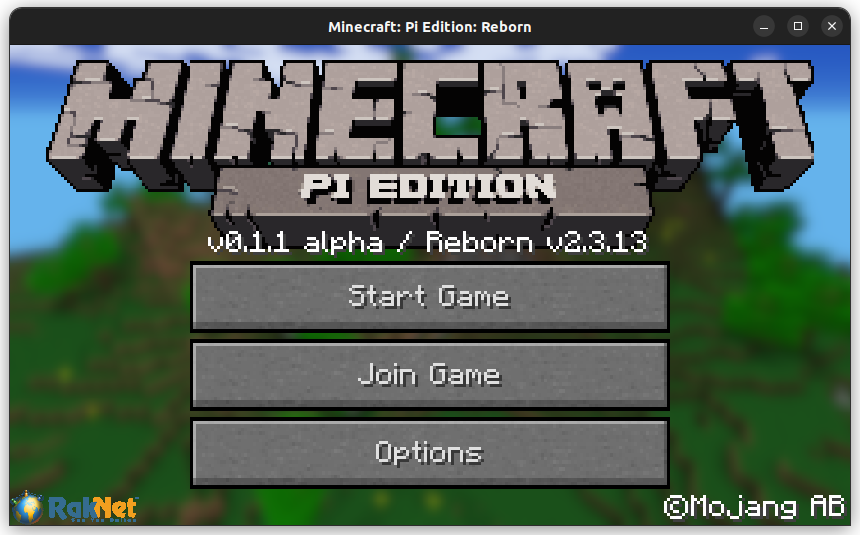
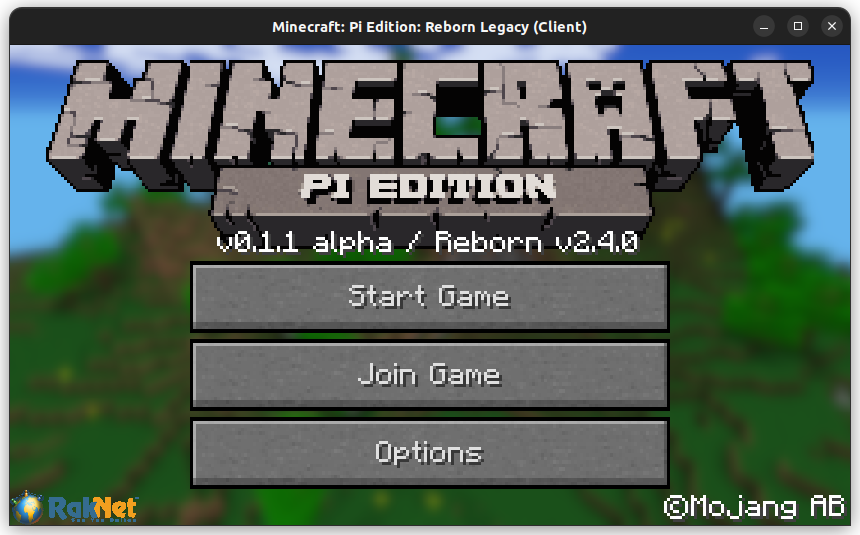
2.4.0

Changed region(s): [[0.2419, 0.4187, 0.7558, 0.4785], [0.3023, 0.0299, 0.6953, 0.0598]]

diff --git a/mods/src/touch/touch.cpp b/mods/src/touch/touch.cpp
@@ -88,7 +88,7 @@ void init_touch() {
     unsigned char outline_patch[4] = {(unsigned char) (block_outlines ? !touch_gui : touch_gui), 0x00, 0x50, 0xe3}; // "cmp r0, #0x1" or "cmp r0, #0x0"
     patch((void *) 0x4a210, outline_patch);
     if (block_outlines) {
-        // Diable Broken Touchscreen-Specific Block Outline Behavior
+        // Disable Broken Touchscreen-Specific Block Outline Behavior
         unsigned char block_highlight_patch[4] = {0x03, 0x00, 0x53, 0xe1}; // "cmp r3, r3"
         patch((void *) 0x494b4, block_highlight_patch);
     }

diff --git a/docs/ARCHITECTURE.md b/docs/ARCHITECTURE.md
@@ -2,6 +2,11 @@
 
 ## Launch Sequence
 
+### Common
+1. The launcher forks itself
+   1. The child process continues the launch sequence.
+   2. The original process monitors the child process for crashes.
+
 ### Client
 1. The launcher is started by the user
    1. The launcher starts several Zenity dialogs to configure MCPI-Reborn
@@ -34,12 +39,11 @@ The Media Layer handles MCPI's graphics calls and user input. It replaces MCPI's
 This sub-component re-implements a subset of SDL 1.2 calls with GLFW. It also provides a few utility functions that are used internally by MCPI-Reborn.
 
 The utility functions include:
-* Taking Screenshots
 * Fullscreen
 * Audio
 * Etc
 
-This is always compiled for the host system's architecture.
+This is always compiled for the host system's architecture unless the Media Layer Proxy is disabled.
 
 This was created because SDL 1.2 has numerous bugs and is in-general unsupported.
 
@@ -60,20 +64,12 @@ It is made of two parts:
 
 While proxying all Media Layer Core API calls across UNIX pipes does hurt performance, it is better than emulating the entire graphics stack.
 
-Using this in server-mode is redundant (and disallowed).
+Using this in server-mode is redundant.
 
 #### Extras
 This sub-component contains code that must always be linked directly to MCPI.
 
 This is always compiled for ARM.
-
-#### Stubs
-This sub-component implements stubs for various redundant libraries used by MCPI to silence linker errors.
-
-This is always compiled for ARM.
-
-##### What To Stub And What To Patch?
-Most libraries (like ``bcm_host``) can just be replaced with stubs, because they don't need to do anything and aren't used by anything else. However, some libraries (like EGL and X11) might be used by some of MCPI-Reborn's dependencies (like GLFW) so instead of being replaced by a stub, each call is manually patched out from MCPI. A stub is still generated just in case that library isn't present on the system to silence linker errors, but it is only loaded if no other version is available.
 
 #### Headers
 This sub-component includes headers for SDL, GLES, and EGL allowing easy (cross-)compilation.

diff --git a/docs/INSTALL.md b/docs/INSTALL.md
@@ -3,24 +3,22 @@
 ## AppImage
 Download packages [here](https://jenkins.thebrokenrail.com/job/minecraft-pi-reborn/job/master/lastSuccessfulBuild/artifact/out/).
 
+### System Requirements
+* Debian Buster/Ubuntu 18.04 Or Higher
+* QEMU User-Mode
+  * Debian/Ubuntu: ``sudo apt install qemu-user``
+  * Arch: ``sudo pacman -Sy qemu-user``
+* Client-Only Dependencies
+  * Graphics Drivers
+  * GTK+ 3
+    * Debian/Ubuntu: ``sudo apt install libgtk-3-0``
+    * Arch: ``sudo pacman -Sy gtk3``
+  * OpenAL
+    * Debian/Ubuntu: ``sudo apt install libopenal1``
+    * Arch: ``sudo pacman -Sy openal``
+
 ### Running
 Follow [these](https://docs.appimage.org/introduction/quickstart.html#how-to-run-an-appimage) instructions.
-
-### Picking A Package
-
-#### Name Format
-```
-minecraft-pi-reborn-<Variant>_X.Y.Z_<Architecture>
-```
-
-#### Picking A Variant
-* ``client``: Client mode, use this if you want to play MCPI.
-* ``server``: Server mode, use this if you want to host a dedicated MCPI server.
-
-#### Picking An Architecture
-* ``amd64``: x86_64, use this if you are using a device with an AMD or Intel processor.
-* ``armhf``: ARM 32-Bit, use this if you are using an ARM device (like a Raspberry Pi).
-* ``arm64``: ARM 64-Bit, ``armhf`` but for 64-bit devices.
 
 ## Flatpak
 <a href="https://flathub.org/apps/details/com.thebrokenrail.MCPIReborn"><img width="240" alt="Download On Flathub" src="https://flathub.org/assets/badges/flathub-badge-en.svg" /></a>

diff --git a/docs/BUILDING.md b/docs/BUILDING.md
@@ -1,21 +1,11 @@
 # Building
 
-## Build Dependencies
-* Common
-  * ARM Compiler
-  * Host Compiler
-  * CMake
-* Host Architecture Dependencies
-  * Client Mode Only
-    * OpenAL
+## Dependencies
 
-## Runtime Dependencies
-* Non-ARM Host Architectures
-  * QEMU User-Mode
-* Host Architecture Dependencies
-  * Client Mode Only
-    * OpenGL ES 2.0
-    * OpenAL
+### Debian/Ubuntu
+```sh
+./scripts/install-dependencies.sh
+```
 
 ## Instructions
 ```sh
@@ -29,4 +19,4 @@
 ```
 
 ### Environment Variables
-- ``MCPI_TOOLCHAIN_USE_DEFAULT_SEARCH_PATHS``: Use Default CMake Search Paths Rather Than Guessing
+* ``MCPI_TOOLCHAIN_USE_DEFAULT_SEARCH_PATHS``: Use Default CMake Search Paths Rather Than Guessing

diff --git a/docs/DEDICATED_SERVER.md b/docs/DEDICATED_SERVER.md
@@ -1,7 +1,7 @@
 # Dedicated Server
 The dedicated server is a version of Minecraft: Pi Edition modified to run in a headless environment. It loads settings from a ``server.properties`` file.
 
-This server is also compatible with MCPE Alpha v0.6.1.
+This server is also compatible with MCPE Alpha v0.6.1[^1].
 
 ## Setup
 
@@ -15,3 +15,5 @@ An official Docker image is also provided: [thebrokenrail/minecraft-pi-reborn-se
 * Player data is not saved because of limitations with MCPE LAN worlds
   * An easy workaround is to place your inventory in a chest before logging off
 * Survival Mode servers are incompatible with unmodded MCPI
+
+[^1]: The exception to this is buckets, those will crash MCPE players.

diff --git a/docs/CHANGELOG.md b/docs/CHANGELOG.md
@@ -1,5 +1,20 @@
 # Changelog
 
+**2.4.0**
+* [Modding SDK](../example-mods/README.md)
+* Cache Blacklist/Whitelist
+* More Reliable AppImages
+* CMake Refactors
+* Disable Broken Touchscreen-Specific Block Outline Behavior
+* Add ``Remove Forced GUI Lag (Can Break Joining Servers)`` Feature Flag (Disabled By Default)
+* Add ``Add Buckets`` Feature Flag (Enabled By Default)
+* Add ``Classic HUD`` Feature Flag (Enabled By Default)
+* Add ``Translucent Toolbar`` Feature Flag (Enabled By Default)
+* Fix Sound Pitch/Volume/Attenuation
+* Fix Holding Left-Click When Attacking
+* Don't Force EGL (Should Fix Some NVIDIA Systems)
+* Performance Fixes
+
 **2.3.13**
 * Fix Texture Bug
 
